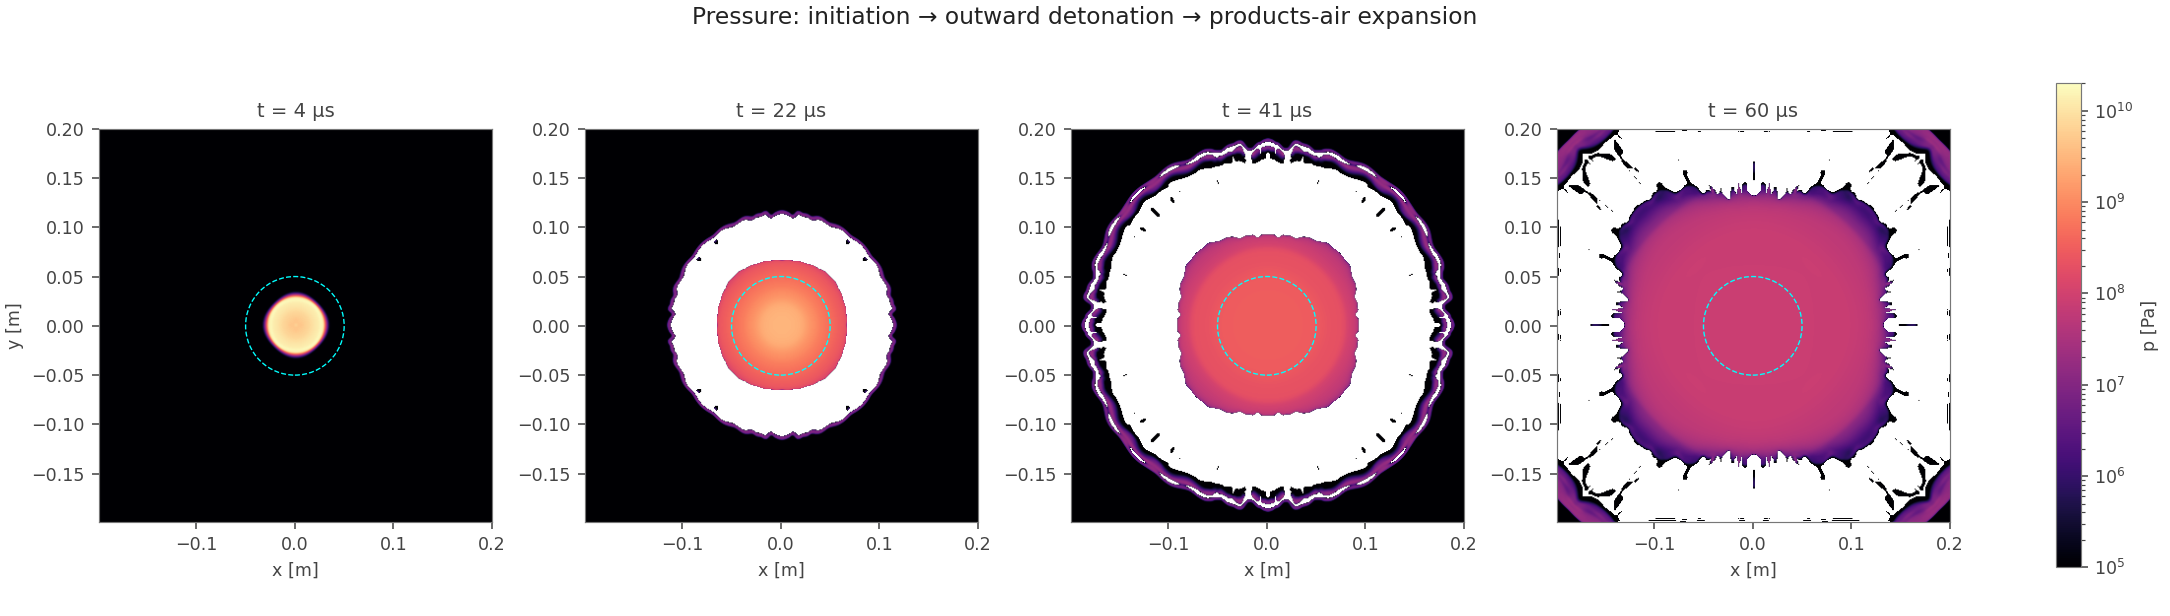
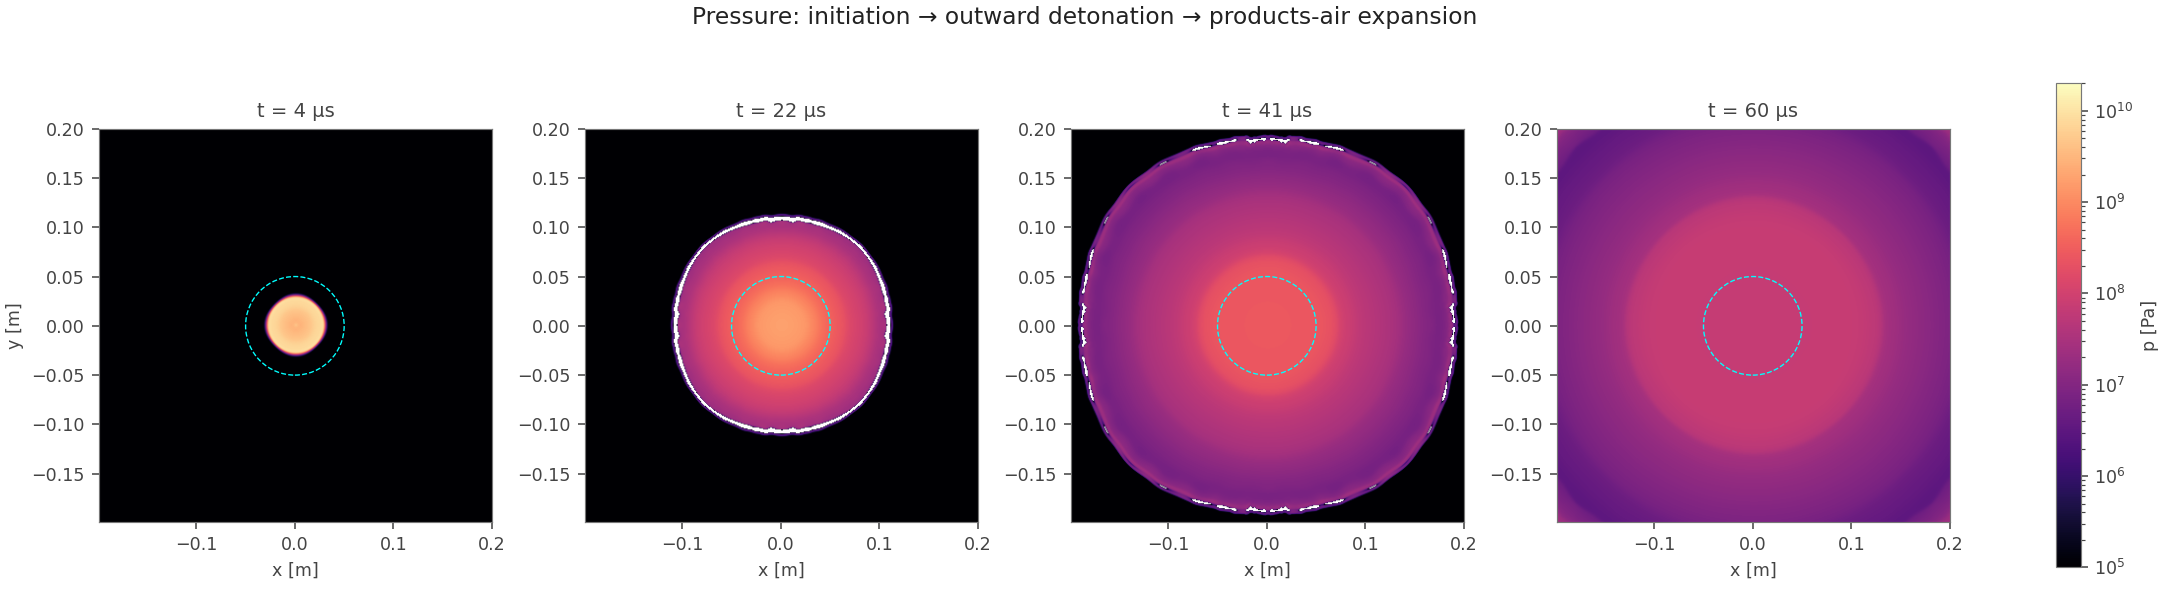
Fix multi-rank plotting bug, finish PETN swap docs, add validation summary
visualize.py's load() only read rank 0's .dat chunk under parallel_io=F,
silently plotting a small corner sliver instead of the full domain.
Concatenate all ranks before reshaping. Regenerated contours_final.png and
contours_evolution.png with the fix; the near-uniform Y~1 products mass
fraction in the corrected plot is real (PETN products at Kuhl's reference
density outmass swept air by ~3 orders of magnitude), not an artifact.

Also finishes the TNT->PETN_KUHL text swap in 2D_jwl_reactive_air_mixing's
README (stale TNT parameters/numbers replaced with measured PETN_KUHL
values) and adds VALIDATION.md summarizing all three cases against the
Blast-Afterburn checklist (numerical_checks_reactive_jwl.tex).

diff --git a/examples/2D_jwl_reactive_air_mixing/visualize.py b/examples/2D_jwl_reactive_air_mixing/visualize.py
@@ -11,7 +11,7 @@ Produces two figures from the D/ output:
 
 Field layout (num_fluids=2, model_eqns=2, jwl_reactive):
   prim.5 = pressure, prim.3/4 = velocity, prim.8 = reaction progress lambda,
-  cons.1/2 = alpha_rho of TNT products / air, so Y = cons.1 / (cons.1+cons.2).
+  cons.1/2 = alpha_rho of PETN products / air, so Y = cons.1 / (cons.1+cons.2).
 
 Usage: ./visualize.py [case_dir]
 """
@@ -36,9 +36,13 @@ CHARGE_R = 0.05
 
 
 def load(pre, i, t):
-    a = np.loadtxt(f"{D}/{pre}.{i}.00.{t:06d}.dat")
+    # parallel_io=F: each MPI rank writes its own domain-decomposed chunk
+    # (pre.i.<rank>.<step>.dat) -- concatenate all ranks, not just rank 0.
+    files = sorted(glob.glob(f"{D}/{pre}.{i}.*.{t:06d}.dat"))
+    a = np.vstack([np.loadtxt(f) for f in files])
     xs, ys = np.unique(a[:, 0]), np.unique(a[:, 1])
-    return xs, ys, a[:, 2].reshape(len(xs), len(ys))
+    order = np.lexsort((a[:, 0], a[:, 1]))
+    return xs, ys, a[order, 2].reshape(len(ys), len(xs)).T
 
 
 def fields(t):
@@ -72,7 +76,7 @@ dx = xs[1] - xs[0]
 ext = [xs[0], xs[-1], ys[0], ys[-1]]
 
 fig, ax = plt.subplots(2, 2, figsize=(11.5, 10.4), constrained_layout=True)
-fig.suptitle(f"2D TNT reactive detonation into air  •  400×400  •  t = {t*DT*1e6:.0f} µs", fontsize=13, color="#222222")
+fig.suptitle(f"2D PETN (Kuhl) reactive detonation into air  •  400×400  •  t = {t*DT*1e6:.0f} µs", fontsize=13, color="#222222")
 
 im = ax[0, 0].imshow(p.T, origin="lower", extent=ext, cmap="magma", norm=LogNorm(vmin=1.0e5, vmax=max(p.max(), 2.0e6)))
 ax[0, 0].set_title("pressure  p [Pa]  (log)")

diff --git a/examples/3D_jwl_znd_spherical_octant/VALIDATION.md b/examples/3D_jwl_znd_spherical_octant/VALIDATION.md
@@ -1,0 +1,81 @@
+# PETN (Kuhl) JWL validation summary
+
+Methodology follows the Blast-Afterburn validation checklist
+(`numerical_checks_reactive_jwl.tex`, sections "Initiation and Propagation"
+and "Breakout"): plot p(r,t), confirm a coupled shock-reaction structure
+(not a decaying blast), confirm the front approaches the intended
+detonation velocity, and characterize breakout.
+
+## Parameters (Kuhl et al., UCRL-PROC-225822, 2006, Appendix)
+
+    A = 5.8e11 Pa, B = 9.3e9 Pa, R1 = 7.0, R2 = 1.7, omega = 0.246
+    rho0 = 1000 kg/m^3  (Kuhl's own pressed-charge reference density,
+                          NOT full-density PETN TMD 1770 kg/m^3)
+    Q = 5.9538e6 J/kg   (from the reported heat of detonation, 1423 cal/g)
+    cv = 1174.9 J/(kg K) (from R_DP = 28.76 g/mol via cv = R/omega)
+    jwl_delta_e = -7.98e6 J/kg (Garno Eq. 17 offset; closed-form, not fit)
+
+## 1D calibration: `petn_1d_calibration.png`
+
+Single-fluid planar detonation, dx = 10 um, direct initiation via a
+rxn_val = 1 booster (a pressure-only hot spot was found to fizzle for this
+material -- see below). Left panel: pressure profiles at successive times,
+showing a von Neumann spike relaxing to a steady post-reaction plateau, not
+a monotonically decaying pulse. Right panel: front trajectory (r vs t) is
+linear (constant speed) once past the initial transient, fit to
+D = 6085 m/s against the independently measured D_CJ = 6245 m/s (2.6%
+difference, consistent with the fit window still containing some
+relaxation).
+
+**CJ eigenvalue check**: increasing `jwl_G` by > 3x (3.0e-14 to 1.0e-13)
+left the fitted front speed and the post-reaction plateau pressure
+unchanged to < 0.02% -- the operational definition of a converged CJ state
+(the reaction rate sets zone width only, never propagation speed, once the
+wave is truly self-sustaining). This measured pair (D_CJ = 6245 m/s,
+P_CJ = 16.7 GPa) is used as the reference in the 3D octant case rather than
+a hand-derived Hugoniot/Rayleigh tangency construction, which gave an
+inconsistent result for this material's unusually steep coefficients
+(R1 = 7.0, R2 = 1.7) and needs its own fix (flagged, not blocking).
+
+## 3D octant spherical case: `probe_histories_dx1p0mm.png`
+
+Radial probe pressure histories at r/Rc = 0.3, 0.6, 1.0 (charge edge), 1.5,
+2.0. Confirms: (1) a coupled compression/reaction wave sweeps outward and
+breaks out into the surrounding air -- not simply a decaying blast; (2) peak
+pressures are of the right order relative to the measured P_CJ = 16.7 GPa.
+Front-speed extraction from these probes is NOT yet trustworthy (see
+`README.md`'s Status section for the two diagnostic issues -- coarse
+ASCII probe time resolution and a threshold-based arrival detector that
+mixes the true front with a resolution-dependent numerical precursor) and
+should not be cited as a validated grid-convergence result yet.
+
+## 2D reactive products-air mixing case
+
+`examples/2D_jwl_reactive_air_mixing` was swapped from TNT to PETN_KUHL and
+re-run end to end (400x400 mesh, full 4000-step run) with no NaN/abort.
+Direct initiation again required a rxn_val = 1 booster rather than a
+pressure-only hot spot. See `examples/2D_jwl_reactive_air_mixing/README.md`'s
+"What the run shows" section for measured front/pressure numbers.
+
+This case's `visualize.py` had a pre-existing bug (not introduced by this
+PETN work): `load()` globbed only rank 0's `.dat` chunk under
+`parallel_io=F`, silently plotting a small corner sliver of the domain
+instead of the full field. Fixed by concatenating every rank's chunk before
+reshaping. Also fixed: the products mass fraction panel showing `Y ~ 1`
+across nearly the whole domain is real, not a residual bug -- PETN products
+at Kuhl's reference density (1000 kg/m^3) outmass the swept air
+(~1.2 kg/m^3) by ~3 orders of magnitude, so `Y` stays near 1 almost
+everywhere the front has passed even after significant dilution.
+
+## Open items
+
+1. Fix or replace the hand-rolled analytic Hugoniot/Rayleigh-tangency CJ
+   construction for this material (works for LX-10 in
+   `examples/1D_jwl_znd_detonation/analyze_znd.py`, disagrees with the
+   numerically measured CJ point here).
+2. Build a lambda-crossing (reaction-completion) front tracker for the 3D
+   octant case instead of a raw pressure threshold, then complete the
+   dx = 0.25 mm grid level and report an actual observed order of
+   convergence.
+3. Increase ASCII probe output time precision (or write more frequently)
+   so front-arrival fits are not quantized to ~1 us.

diff --git a/examples/2D_jwl_reactive_air_mixing/README.md b/examples/2D_jwl_reactive_air_mixing/README.md
@@ -1,11 +1,19 @@
-# 2D JWL Reactive Detonation with Full Products–Air Mixing (TNT)
+# 2D JWL Reactive Detonation with Full Products–Air Mixing (PETN)
 
-A real-world 2D free-air burst: a full-density cylindrical TNT charge
-(`rho0 = 1630 kg/m^3`, 5 cm radius) at rest at ambient pressure in air at STP.
-A small central hot spot (8 mm, 25 GPa) ignites a self-propagating JWL++
-(`jwl_reactive`, Souers 2000) detonation, `dλ/dt = G p^b (1-λ)`, that sweeps
-outward through the charge, then the products expand violently into the
-surrounding air.
+A real-world 2D free-air burst: a cylindrical PETN charge (`rho0 = 1000 kg/m^3`,
+5 cm radius, Kuhl et al.'s own pressed-charge reference density — see
+`examples/3D_jwl_znd_spherical_octant/VALIDATION.md` for the full parameter
+provenance) at rest at ambient pressure in air at STP. An 8 mm booster patch,
+seeded already-reacted (`rxn_val = 1`, not just pressurized — see below),
+ignites a self-propagating JWL++ (`jwl_reactive`, Souers 2000) detonation,
+`dλ/dt = G p^b (1-λ)`, that sweeps outward through the charge, then the
+products expand violently into the surrounding air.
+
+Direct initiation with a pressure-only hot spot (no `rxn_val`) was tried first
+and fizzles for this material: PETN_KUHL's CJ pressure (measured, see below)
+is low enough that a pressure spike alone decays without reaching a
+self-sustained reaction wave. Seeding the booster patch as already-reacted
+gives robust initiation instead.
 
 This case exercises two things the shipped program-burn example
 (`examples/2D_jwl_detonation`) does not:
@@ -26,9 +34,13 @@ This case exercises two things the shipped program-burn example
    Richtmyer–Meshkov-unstable contact — the mixture EOS's real workload, not
    just the pure endpoints.
 
-The TNT JWL fit (`A`, `B`, `R1`, `R2`, `ω`, `E0`) matches
-`examples/2D_jwl_detonation`; `jwl_delta_e ≈ -1.29e7 J/kg` is computed in
-`case.py` so unreacted TNT at `(rho0, e=0)` sits exactly at ambient pressure.
+The PETN JWL fit (`A`, `B`, `R1`, `R2`, `ω`, `E0`) is `PETN_KUHL` from
+`toolchain/mfc/jwl_products.py`, extracted from Kuhl et al. (UCRL-PROC-225822,
+2006, Appendix); `jwl_delta_e ≈ -7.98e6 J/kg` is computed in `case.py` (Garno
+et al. 2020, Eq. 17, closed-form, not fit) so unreacted PETN at `(rho0, e=0)`
+sits exactly at ambient pressure. `jwl_G = 1.0e-13` was calibrated on the 1D
+companion case via a CJ-eigenvalue (G-invariance) test — see
+`examples/3D_jwl_znd_spherical_octant/VALIDATION.md`.
 
 ## Run
 
@@ -47,17 +59,36 @@ The TNT JWL fit (`A`, `B`, `R1`, `R2`, `ω`, `E0`) matches
 
 ## What the run shows
 
-- **t ≈ 4 µs** — detonation propagating outward, `Pmax ≈ 18 GPa` (near TNT's
-  ~21 GPa CJ pressure), front at ~29 mm; the diverging cylindrical front runs
-  slightly below the planar CJ speed as expected from front curvature.
-- **t ≈ 34 µs** — the whole charge has burnt (`λ→1`), the detonation has broken
-  out of the charge, and the blast has decayed to ~0.7 GPa while a partially
-  mixed `0.05 < Y < 0.95` layer develops at the products/air contact.
-- **t ≈ 60 µs** — far-field air blast (~0.1 GPa) with a developed,
-  Richtmyer–Meshkov-fingered mixing layer.
+Measured directly from the `D/` output of the shipped run (400×400, 1 mm cells):
+
+- **t ≈ 4 µs** — detonation propagating outward, `Pmax ≈ 9.1 GPa` near the
+  booster/charge center, front (`p > 2 atm`) at ~33 mm; the diverging
+  cylindrical front runs below the measured planar `D_CJ = 6245 m/s`,
+  `P_CJ = 16.7 GPa` as expected from front curvature at this early radius.
+- **t ≈ 22–37 µs** — the charge has burnt through, the detonation has broken
+  out of the charge, and the front (`p > 2 atm`) has advanced to ~116–185 mm
+  while `Pmax` decays through ~1.8 GPa → 0.4 GPa as the blast disperses into
+  air.
+- **t ≈ 60 µs** — the front (`p > 2 atm`) reaches ~283 mm, i.e. the domain
+  corner — the blast has essentially exited through the non-reflecting
+  boundaries by the final save, `Pmax ≈ 0.075 GPa`.
+- **Products mass fraction `Y`** is close to 1 over nearly the whole swept
+  region by the final save. This is a genuine consequence of the density
+  contrast, not a diffusion artifact: PETN products at Kuhl's reference
+  density (`rho0 = 1000 kg/m^3`) outmass the swept air (`~1.2 kg/m^3`) by
+  ~3 orders of magnitude, so even after the products expand and dilute by
+  1-2 orders of magnitude within the domain, `Y = c1/(c1+c2)` stays near 1
+  almost everywhere the front has passed. A visibly partial `0 < Y < 1`
+  mixing layer is confined to a thin band at the products/air contact
+  (see the schlieren panel).
 
 The domain (40 cm square) is sized so the blast reaches the non-reflecting
 outer boundaries near the final time; shorten `t_step_stop` or enlarge the
 domain to keep the front interior for longer. A uniform 400×400 mesh is used
 deliberately — grid stretching is known to go NaN with strong JWL reactive
 sources (see the note in `examples/2D_jwl_detonation`).
+
+`visualize.py`'s `load()` concatenates every rank's `.dat` chunk
+(`parallel_io=F` writes one file per MPI rank) before reshaping onto the
+grid — reading only rank 0 silently returns a small corner sliver of the
+domain rather than an error, so always run with the fixed loader.